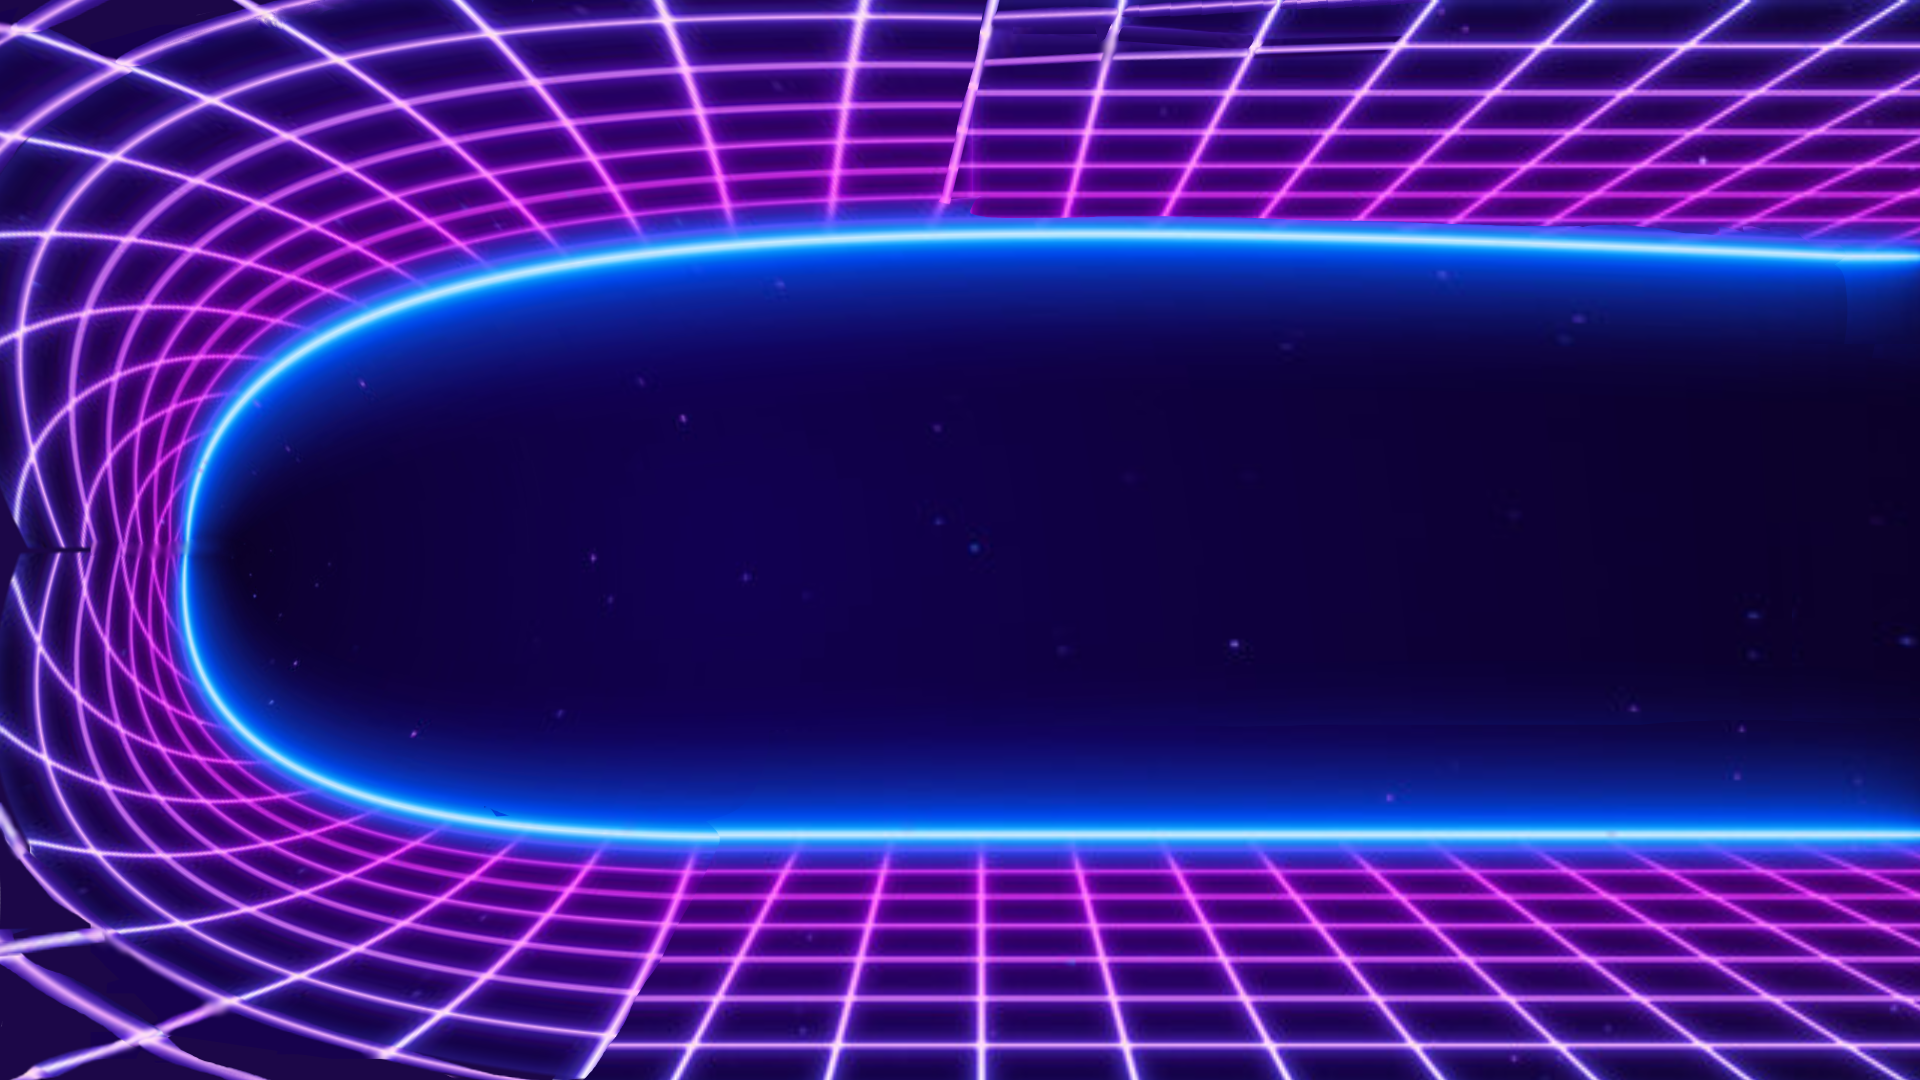
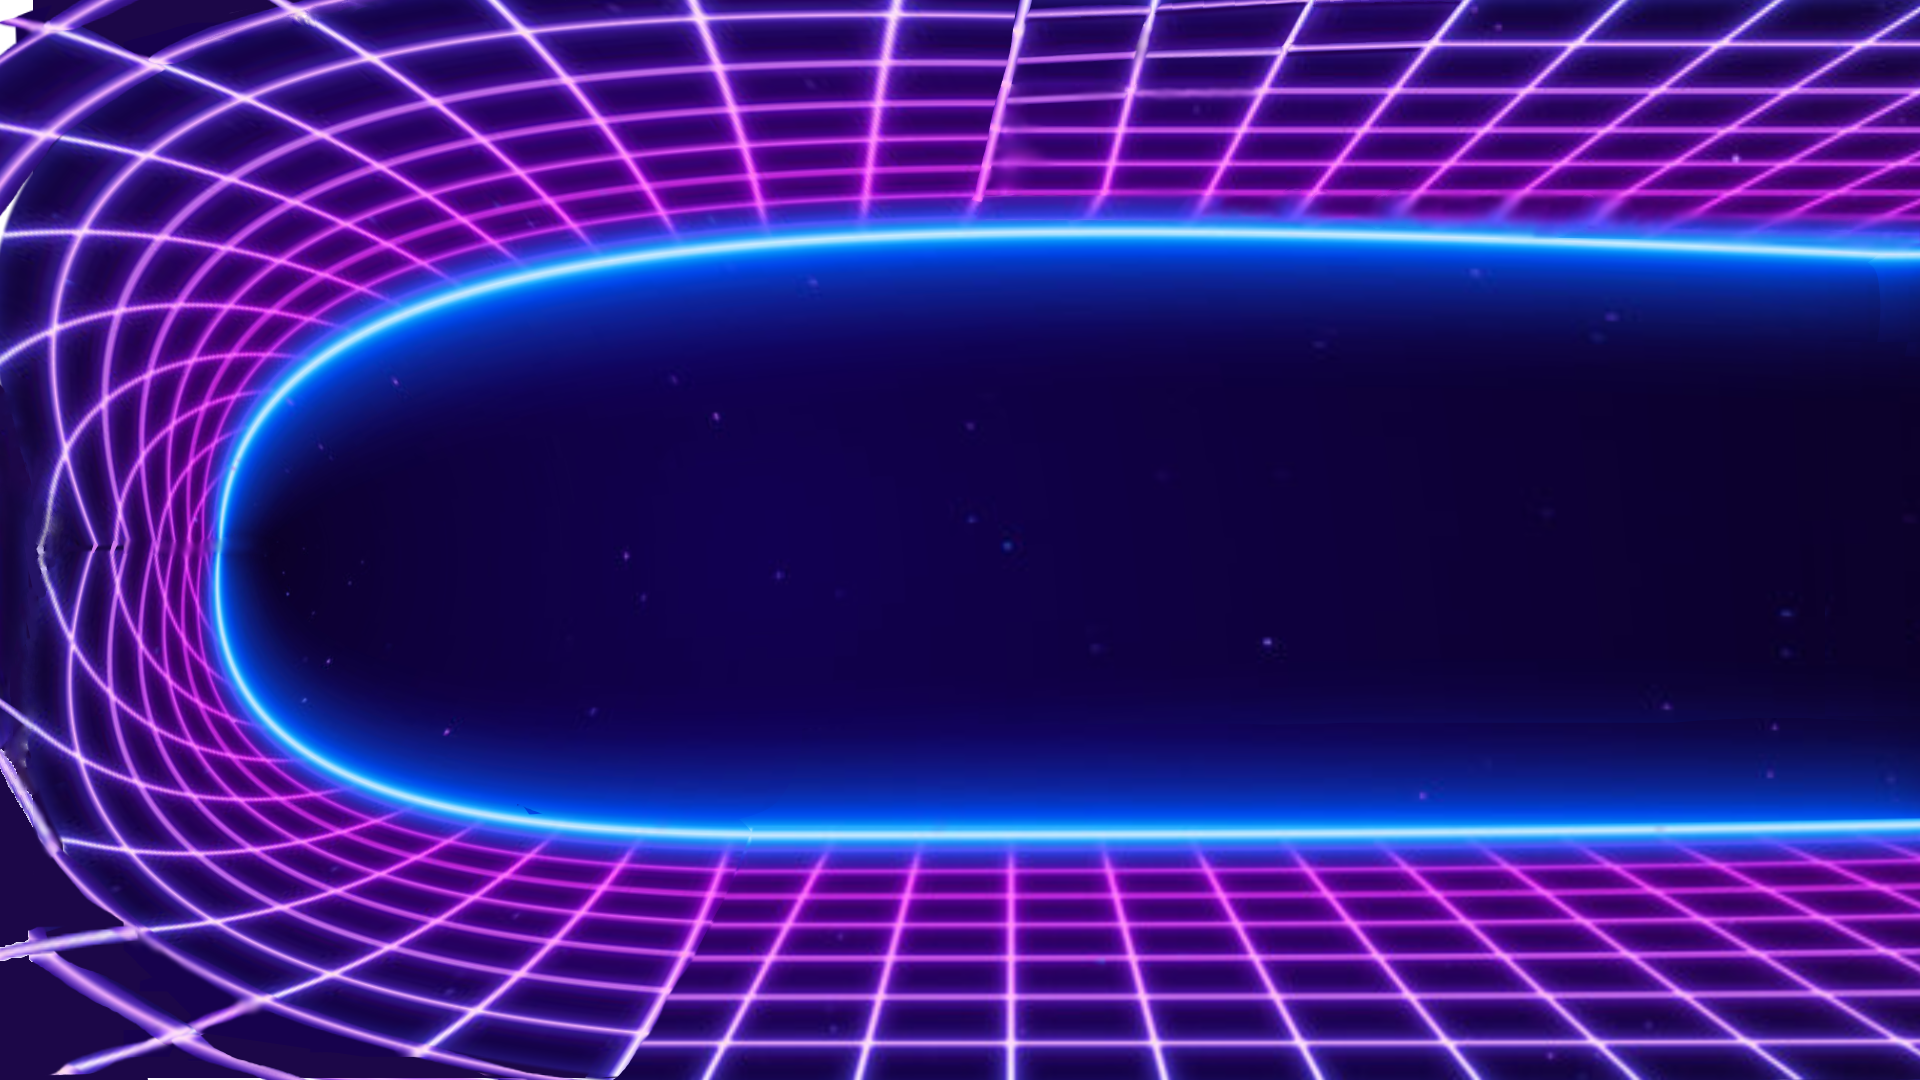
c'est null ca marche' pas

diff --git a/src/visualizer/visualizer.py b/src/visualizer/visualizer.py
@@ -90,9 +90,25 @@ class Visualizer:
         self.anim_type = AnimTypes.LEFT_TO_RIGHT
         self.act_anim = 0
         custom_cell = []
-        custom_cell.append([Cell(9, 0, 0, custom_cell), Cell(12, 0, 1, custom_cell)])
-        custom_cell.extend([[Cell(1, x, 0, custom_cell), Cell(4, x, 1, custom_cell)] for x in range(MainData.config_from_file["width"]-2)])
-        custom_cell.append([Cell(3, MainData.config_from_file["width"]-1, 0, custom_cell), Cell(6, MainData.config_from_file["width"]-1, 1, custom_cell)])
+        custom_cell.append(
+            [Cell(9, 0, 0, custom_cell), Cell(12, 0, 1, custom_cell)]
+        )
+        custom_cell.extend(
+            [
+                [Cell(1, x, 0, custom_cell), Cell(4, x, 1, custom_cell)]
+                for x in range(MainData.config_from_file["width"] - 2)
+            ]
+        )
+        custom_cell.append(
+            [
+                Cell(
+                    3, MainData.config_from_file["width"] - 1, 0, custom_cell
+                ),
+                Cell(
+                    6, MainData.config_from_file["width"] - 1, 1, custom_cell
+                ),
+            ]
+        )
         self.custom_cell = custom_cell
 
     @property
@@ -360,16 +376,21 @@ class Visualizer:
                 charachter.incr_anim()
             pos = (charachter.visual_pos) * MainData.cell_size
             target.blit(charachter.image, pos + offset)
-        for x in (range(self.pacmap.pacman.lives-1)):
-            pos = (Pos2D(len(self.pacmap.cells)-1-x, len(self.pacmap.cells[0])) * 3 + (1, 1)) * MainData.cell_size 
+        for x in range(self.pacmap.pacman.lives - 1):
+            pos = (
+                Pos2D(
+                    len(self.pacmap.cells) - 1 - x, len(self.pacmap.cells[0])
+                )
+                * 3
+                + (1, 1)
+            ) * MainData.cell_size
             target.blit(self.pacmap.pacman.raw_image, pos + offset)
-
 
     def draw_cells(
         self,
         target: pygame.surface.Surface,
         offset: Pos2D,
-        cells: list[list[cells.Cell]],
+        cells: list[list[Cell]],
     ) -> None:
         for x, row in enumerate(cells):
             for y, cell in enumerate(row):
@@ -728,7 +749,18 @@ class Visualizer:
                 animation_frames_count=10,
             ),
         ]
-
+        high_score = AnimatedButton(
+            0.2,
+            0.2,
+            0.5,
+            0.5,
+            self.screen,
+            self.get_font(10),
+            image=MainData.assets.get_asset("control.png", scaling=False),
+            text="\n".join(
+                f'"{k}": {v}' for k, v in MainData.high_scores.items()
+            ),
+        )
         prompting_for_name = [
             ClickableButton(
                 0.35,
@@ -749,7 +781,7 @@ class Visualizer:
         AnimatedButton.last_hovered = main_menu[0]
         self.buttons_per_menu: dict[VisualState, list[ClickableButton]] = {
             VisualState.IN_GAME: in_game,
-            VisualState.HIGH_SCORE_MENU: [back_button],
+            VisualState.HIGH_SCORE_MENU: [back_button, high_score],
             VisualState.MAIN_MENU: main_menu,
             VisualState.CONFIG: [back_button],
             VisualState.PROMPTING_FOR_NAME: prompting_for_name,
